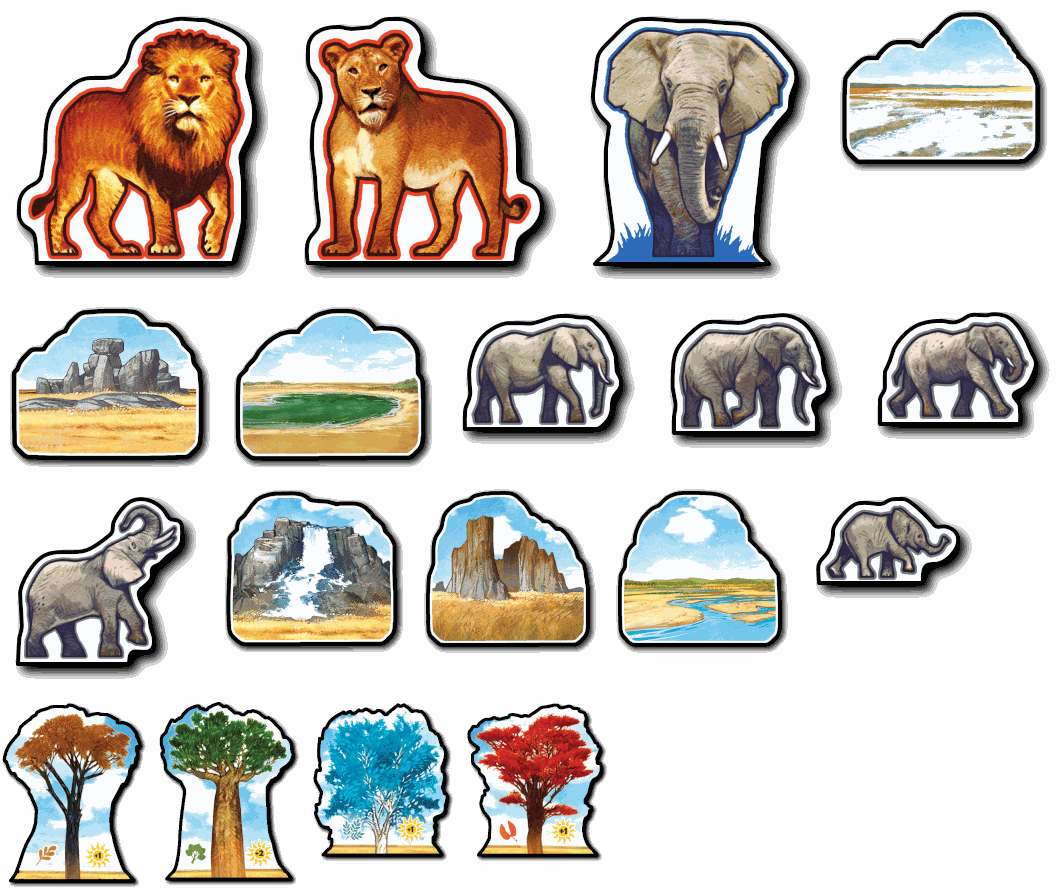
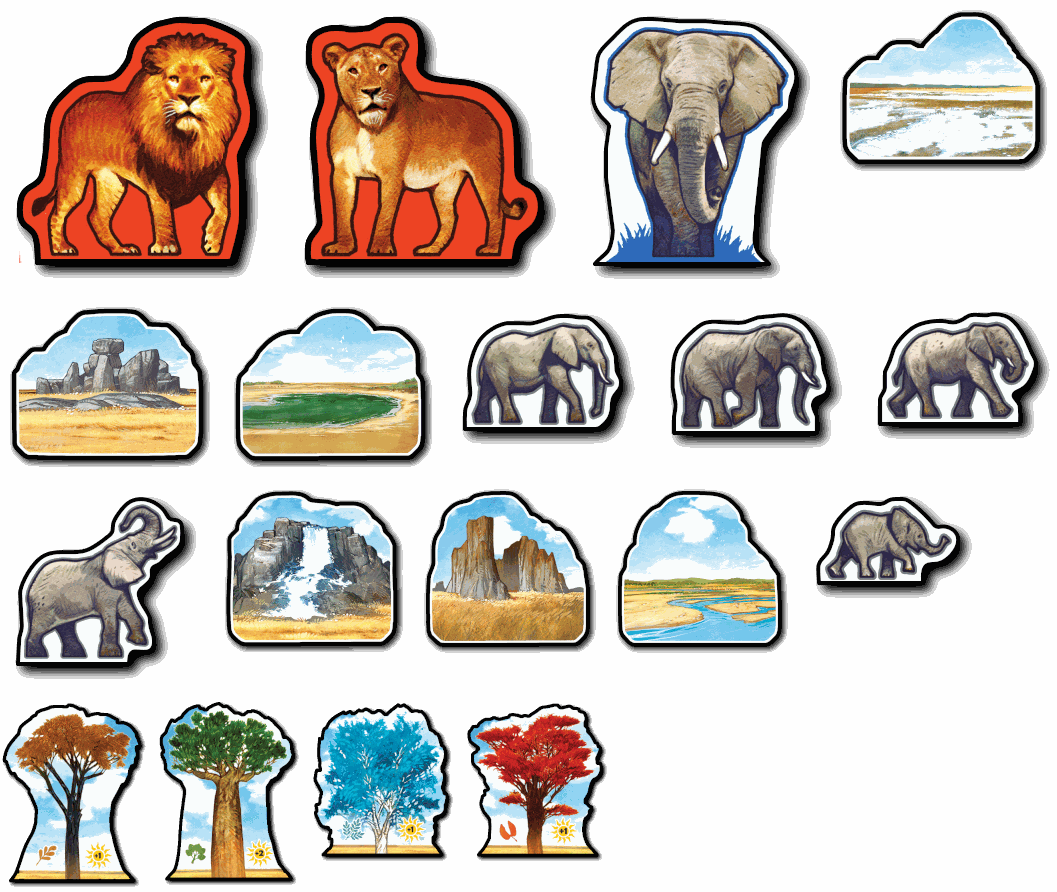
Uniform player's data + add lion/lioness information

Changed region(s): [[0.0, 0.0, 0.2498, 0.3027], [0.281, 0.0, 0.5307, 0.3027]]

diff --git a/tembo.css b/tembo.css
@@ -107,6 +107,17 @@
     transform: scaleY(0.7) skewX(-25deg); }
 .tembo-meeple.meeple-landmark-meadow, .tembo-meeple.meeple-landmark-rocks, .tembo-meeple.meeple-landmark-waterfall, .tembo-meeple.meeple-landmark-canyon, .tembo-meeple.meeple-landmark-river, .tembo-meeple.meeple-landmark-snow {
   height: 2em; }
+.tembo-meeple.meeple-lion, .tembo-meeple.meeple-lioness {
+  height: 3em;
+  transform-origin: bottom left;
+  transition: transform 0.5s, opacity 0.5s, filter 0.5s;
+  opacity: 1;
+  transform: scaleY(1) skewX(0deg);
+  filter: grayscale(0); }
+  .tembo-meeple.meeple-lion[data-state="0"], .tembo-meeple.meeple-lioness[data-state="0"] {
+    opacity: 0.7;
+    transform: scaleY(0.8) skewX(-20deg);
+    filter: grayscale(0.8); }
 
 .meeple-lion {
   background-image: url("img/meeples.png");
@@ -428,7 +439,10 @@ body {
       grid-row-end: span 1;
       grid-column-end: span 1;
       border-radius: 50%;
-      z-index: 3; }
+      z-index: 3;
+      display: flex;
+      justify-content: center;
+      align-items: center; }
       #tembo-board-resizable #tembo-board .board-cell:hover {
         background: rgba(0, 255, 0, 0.26);
         cursor: pointer; }

diff --git a/modules/css/meeples.scss b/modules/css/meeples.scss
@@ -26,6 +26,26 @@
   &.meeple-landmark-snow {
     height: 2em;
   }
+
+  &.meeple-lion,
+  &.meeple-lioness {
+    height: 3em;
+
+    transform-origin: bottom left;
+    transition:
+      transform 0.5s,
+      opacity 0.5s,
+      filter 0.5s;
+    opacity: 1;
+    transform: scaleY(1) skewX(0deg);
+    filter: grayscale(0);
+
+    &[data-state="0"] {
+      opacity: 0.7;
+      transform: scaleY(0.8) skewX(-20deg);
+      filter: grayscale(0.8);
+    }
+  }
 }
 
 @import "_meeples.generated";

diff --git a/modules/js/board.js b/modules/js/board.js
@@ -75,10 +75,10 @@ define(['dojo', 'dojo/_base/declare', 'ebg/counter'], (dojo, declare) => {
       });
     },
 
-    // getCell(cell, pId = null) {
-    //   if (pId == null) pId = this.player_id;
-    //   return $(`cell-${pId}-${cell.x}-${cell.y}`);
-    // },
+    getCell(cell) {
+      return $(`cell-${cell.x}-${cell.y}`);
+    },
+
     // extractCellFromUId(uid) {
     //   let t = uid.split('-');
     //   return { x: parseInt(t[0]), y: parseInt(t[1]) };

diff --git a/modules/js/tpls.js b/modules/js/tpls.js
@@ -56,7 +56,7 @@ define(['dojo', 'dojo/_base/declare'], (dojo, declare) => {
       return `<div class="tembo-meeple meeple-${type}" id="meeple-${meeple.id}" data-id="${meeple.id}" data-type="${type}"></div>`;
     },
 
-    tplInfoPanel(animals) {
+    tplInfoPanel() {
       return `
    <div class='player-board' id="info-panel">
      <div class="info-panel-row" id="player_config">

diff --git a/modules/css/board.scss b/modules/css/board.scss
@@ -105,6 +105,10 @@ $cellSize: 50px;
       grid-column-end: span 1;
       border-radius: 50%;
       z-index: 3;
+      display: flex;
+      justify-content: center;
+      align-items: center;
+
       &:hover {
         background: rgba(0, 255, 0, 0.26);
         cursor: pointer;

diff --git a/tembo.js b/tembo.js
@@ -202,6 +202,10 @@ define([
         return $('trees-holder');
       }
 
+      if (loc == 'board') {
+        return this.getCell(meeple);
+      }
+
       console.error('Trying to get container of a meeple', meeple);
       return 'game_play_area';
     },

diff --git a/modules/php/Materials/Journeys.php b/modules/php/Materials/Journeys.php
@@ -11,6 +11,7 @@ const JOURNEYS = [
       ['x' => 9, 'y' => 15],
       ['x' => 3, 'y' => 18],
     ],
+    'lioness' => ['x' => 6, 'y' => 9],
   ],
   "B" => [
     'destination' => ['x' => 0, 'y' => 0, 'rotation' => 3],
@@ -23,6 +24,7 @@ const JOURNEYS = [
       ['x' => 3, 'y' => 18],
       ['x' => 9, 'y' => 18],
     ],
+    'lioness' => ['x' => 9, 'y' => 6],
   ],
   1 => [
     'destination' => ['x' => 12, 'y' => 0, 'rotation' => 0],
@@ -35,8 +37,8 @@ const JOURNEYS = [
       ['x' => 0, 'y' => 18],
       ['x' => 6, 'y' => 18],
     ],
-    'lion' => 0,
-    'lioness' => 3,
+    'lion' => ['x' => 15, 'y' => 3],
+    'lioness' => ['x' => 15, 'y' => 18],
   ],
   2 => [
     'destination' => ['x' => 0, 'y' => 0, 'rotation' => 0],
@@ -49,6 +51,8 @@ const JOURNEYS = [
       ['x' => 9, 'y' => 12],
       ['x' => 9, 'y' => 18],
     ],
+    'lion' => ['x' => 3, 'y' => 12],
+    'lioness' => ['x' => 9, 'y' => 12],
   ],
   3 => [
     'destination' => ['x' => 12, 'y' => 0, 'rotation' => 0],
@@ -61,6 +65,8 @@ const JOURNEYS = [
       ['x' => 12, 'y' => 3],
       ['x' => 9, 'y' => 18],
     ],
+    'lion' => ['x' => 15, 'y' => 6],
+    'lioness' => ['x' => 6, 'y' => 15],
   ],
   4 => [
     'destination' => ['x' => 6, 'y' => 0, 'rotation' => 0],
@@ -73,6 +79,8 @@ const JOURNEYS = [
       ['x' => 9, 'y' => 9],
       ['x' => 12, 'y' => 15],
     ],
+    'lion' => ['x' => 9, 'y' => 3],
+    'lioness' => ['x' => 0, 'y' => 18],
   ],
   5 => [
     'destination' => ['x' => 18, 'y' => 3, 'rotation' => 1],
@@ -85,6 +93,8 @@ const JOURNEYS = [
       ['x' => 9, 'y' => 9],
       ['x' => 12, 'y' => 3],
     ],
+    'lion' => ['x' => 6, 'y' => 9],
+    'lioness' => ['x' => 9, 'y' => 12],
   ],
   6 => [
     'destination' => ['x' => 3, 'y' => 0, 'rotation' => 0],
@@ -97,6 +107,8 @@ const JOURNEYS = [
       ['x' => 12, 'y' => 9],
       ['x' => 6, 'y' => 15],
     ],
+    'lion' => ['x' => 3, 'y' => 9],
+    'lioness' => ['x' => 12, 'y' => 9],
   ],
   7 => [
     'destination' => ['x' => 6, 'y' => 0, 'rotation' => 0],
@@ -109,6 +121,8 @@ const JOURNEYS = [
       ['x' => 12, 'y' => 12],
       ['x' => 6, 'y' => 15],
     ],
+    'lion' => ['x' => 3, 'y' => 15],
+    'lioness' => ['x' => 12, 'y' => 15],
   ],
   8 => [
     'destination' => ['x' => 18, 'y' => 6, 'rotation' => 1],
@@ -121,6 +135,8 @@ const JOURNEYS = [
       ['x' => 3, 'y' => 18],
       ['x' => 12, 'y' => 6],
     ],
+    'lion' => ['x' => 6, 'y' => 12],
+    'lioness' => ['x' => 9, 'y' => 15],
   ],
   9 => [
     'destination' => ['x' => 9, 'y' => 0, 'rotation' => 0],
@@ -133,6 +149,8 @@ const JOURNEYS = [
       ['x' => 12, 'y' => 9],
       ['x' => 9, 'y' => 3],
     ],
+    'lion' => ['x' => 3, 'y' => 9],
+    'lioness' => ['x' => 12, 'y' => 15],
   ],
   10 => [
     'destination' => ['x' => 3, 'y' => 0, 'rotation' => 0],
@@ -145,6 +163,8 @@ const JOURNEYS = [
       ['x' => 12, 'y' => 6],
       ['x' => 12, 'y' => 12],
     ],
+    'lion' => ['x' => 9, 'y' => 9],
+    'lioness' => ['x' => 9, 'y' => 12],
   ],
   11 => [
     'destination' => ['x' => 6, 'y' => 0, 'rotation' => 0],
@@ -157,6 +177,8 @@ const JOURNEYS = [
       ['x' => 6, 'y' => 15],
       ['x' => 12, 'y' => 6],
     ],
+    'lion' => ['x' => 12, 'y' => 9],
+    'lioness' => ['x' => 6, 'y' => 15],
   ],
   12 => [
     'destination' => ['x' => 3, 'y' => 0, 'rotation' => 0],
@@ -169,5 +191,7 @@ const JOURNEYS = [
       ['x' => 15, 'y' => 15],
       ['x' => 3, 'y' => 15],
     ],
+    'lion' => ['x' => 9, 'y' => 9],
+    'lioness' => ['x' => 12, 'y' => 15],
   ],
 ];

diff --git a/modules/php/Models/Player.php b/modules/php/Models/Player.php
@@ -3,6 +3,7 @@
 namespace Bga\Games\Tembo\Models;
 
 use Bga\Games\Tembo\Core\Engine\AbstractNode;
+use Bga\Games\Tembo\Helpers\Collection;
 use Bga\Games\Tembo\Helpers\DB_Model;
 use Bga\Games\Tembo\Managers\Actions;
 use Bga\Games\Tembo\Managers\Cards;
@@ -69,19 +70,20 @@ class Player extends DB_Model
 
   public function getUiData(): array
   {
+    $data = parent::getUiData();
+
     $currentId = Players::getCurrentId();
-    if ($this->id == $currentId) {
-      $hand = Cards::getInLocation(LOCATION_HAND . "_" . $this->id)->ui();
-    } else {
-      $matriarchCount = count(Cards::getInLocation(LOCATION_HAND . "_" . $this->id)->filter(function (Card $card) {
-        return $card->getType() === CARD_TYPE_MATRIARCH;
-      }));
-      $hand = [
-        'all' => Cards::countInLocation(LOCATION_HAND . "_" . $this->id),
-        'matriarch' => $matriarchCount,
-      ];
-    }
-    return [...parent::getUiData(), 'hand' => $hand];
+    $hand = $this->getHand();
+    $data['hand'] = ($this->id == $currentId) ? $hand->ui() : [];
+    $data['handCount'] = $hand->count();
+    $data['matriarchCount'] = $hand->filter(fn(Card $card) => $card->isMatriarch())->count();
+
+    return $data;
+  }
+
+  public function getHand(): Collection
+  {
+    return Cards::getInLocation(LOCATION_HAND . "_" . $this->id);
   }
 
   public function canTakeAction(string $action, null|array|AbstractNode $ctx): bool

diff --git a/modules/php/Managers/Meeples.php b/modules/php/Managers/Meeples.php
@@ -88,10 +88,13 @@ class Meeples extends CachedPieces
     }
 
     $journey = JOURNEYS[$journeyId];
-    $lionBoardTile = $board[$journey['lion'] ?? 0];
-    $meeples[] = ['type' => LION, 'state' => STATE_LAYING, 'location' => $lionBoardTile['id']];
-    $lionessBoardTile = $board[$journey['lioness'] ?? 1];
-    $meeples[] = ['type' => LIONESS, 'state' => STATE_LAYING, 'location' => $lionessBoardTile['id']];
+    if (isset($journey['lion'])) {
+      $meeples[] = ['type' => LION, 'state' => STATE_LAYING, 'location' => LOCATION_BOARD, 'x' => $journey['lion']['x'], 'y' => $journey['lion']['y']];
+    }
+    if (isset($journey['lioness'])) {
+      $meeples[] = ['type' => LIONESS, 'state' => STATE_LAYING, 'location' => LOCATION_BOARD, 'x' => $journey['lioness']['x'], 'y' => $journey['lioness']['y']];
+    }
+
     return self::create($meeples, LOCATION_TABLE);
   }
 

diff --git a/modules/php/Models/Card.php b/modules/php/Models/Card.php
@@ -57,6 +57,11 @@ class Card extends DB_Model
     return $this->internal_id;
   }
 
+  public function isMatriarch(): bool
+  {
+    return $card->getType() === CARD_TYPE_MATRIARCH;
+  }
+
   public function getUiData()
   {
     return [...parent::getUiData(), 'type' => $this->typeUi];

diff --git a/modules/php/constants.inc.php b/modules/php/constants.inc.php
@@ -161,6 +161,7 @@ const LOCATION_TABLE = 'table';
 const LOCATION_HAND = 'hand';
 const LOCATION_RESERVE = 'reserve';
 const LOCATION_DECK = 'deck';
+const LOCATION_BOARD = 'board';
 const INFINITY = 1000;
 
 const STATE_LAYING = 0;
